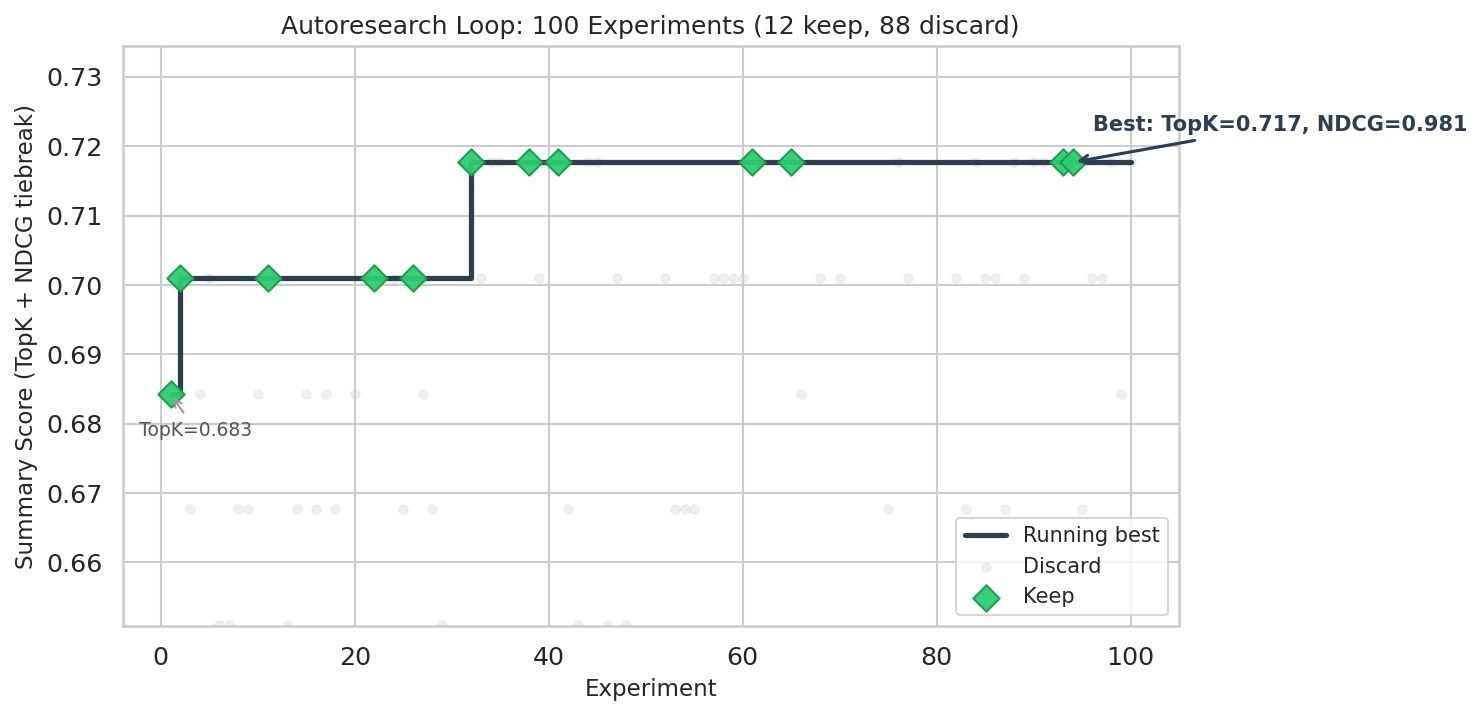
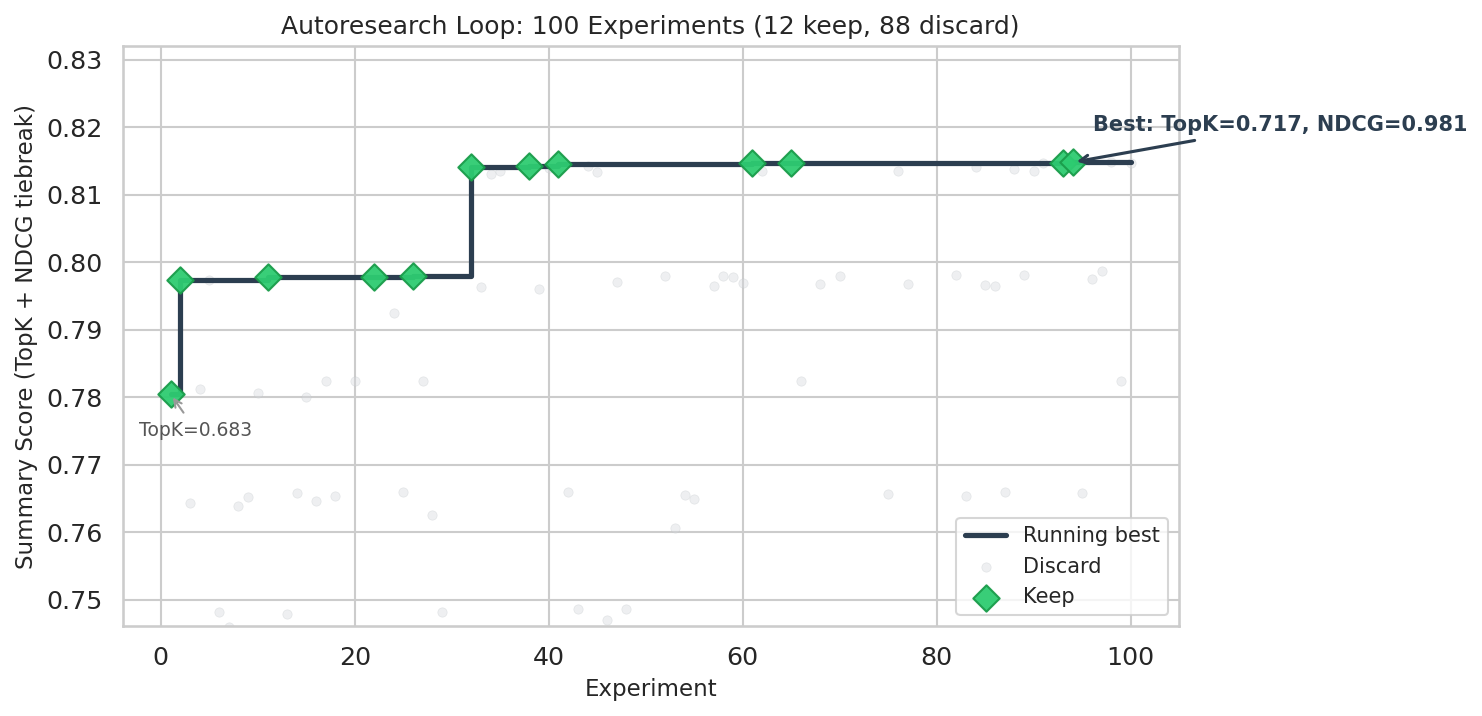
fix: fig2 increase NDCG weight to 0.1 so all 12 keeps are distinct steps
With 0.001 weight, NDCG tiebreaks were invisible (rounded to same
value). At 0.1, each NDCG improvement is a visible sub-step within
each TopK plateau. All 12 green diamonds now at unique heights.

diff --git a/src/analysis.py b/src/analysis.py
@@ -599,9 +599,11 @@ def figure2_loop_trajectory():
     # Combined score: topk is primary, ndcg breaks ties.
     # This mirrors the keep/discard logic in session_tools.py exactly:
     #   keep if topk > best_topk, OR (topk == best_topk AND ndcg > best_ndcg)
-    # By encoding as topk + ndcg * 0.001 every keep becomes a unique step.
+    # Weight of 0.1 makes NDCG sub-steps visible between TopK plateaus:
+    # TopK steps are ~0.017 apart; NDCG diffs ~0.01 * 0.1 = 0.001 per sub-step,
+    # giving ~6 visible sub-steps per TopK plateau without overlapping the next.
     results["combined_score"] = (results["topk_enrichment"]
-                                 + results["ndcg"] * 0.001)
+                                 + results["ndcg"] * 0.1)
 
     # Running best as step function (like autoresearch-mol style)
     running_best = results["combined_score"].cummax()
